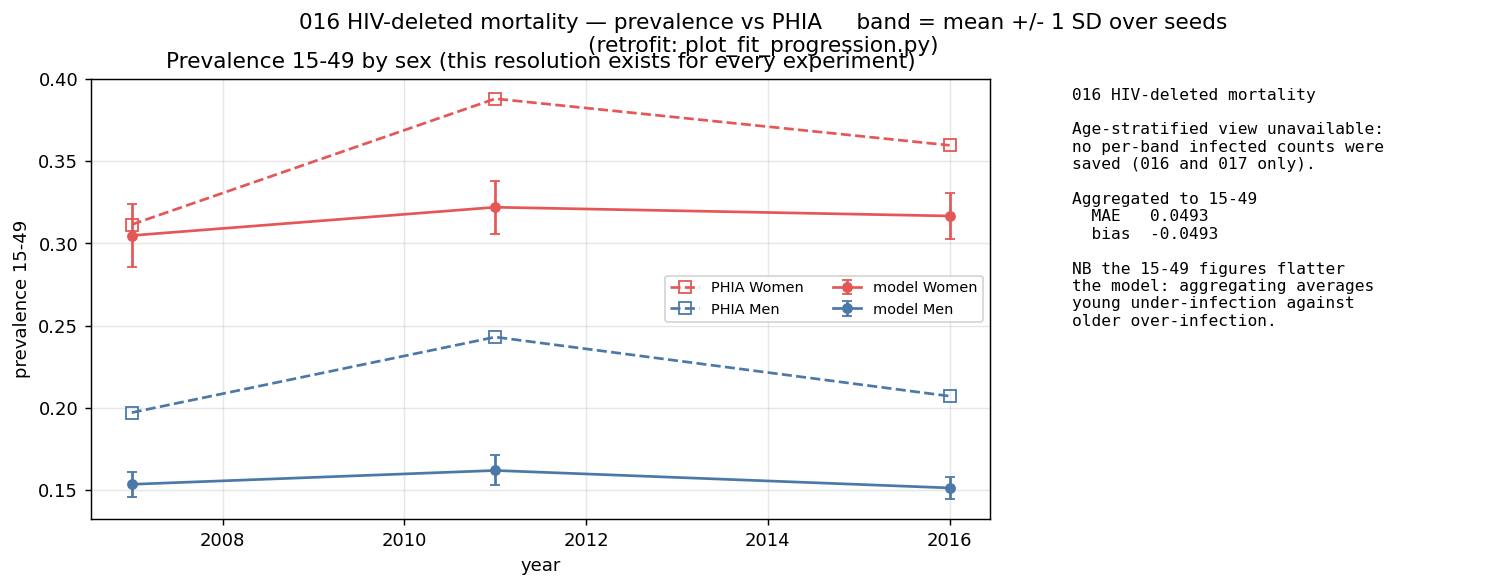
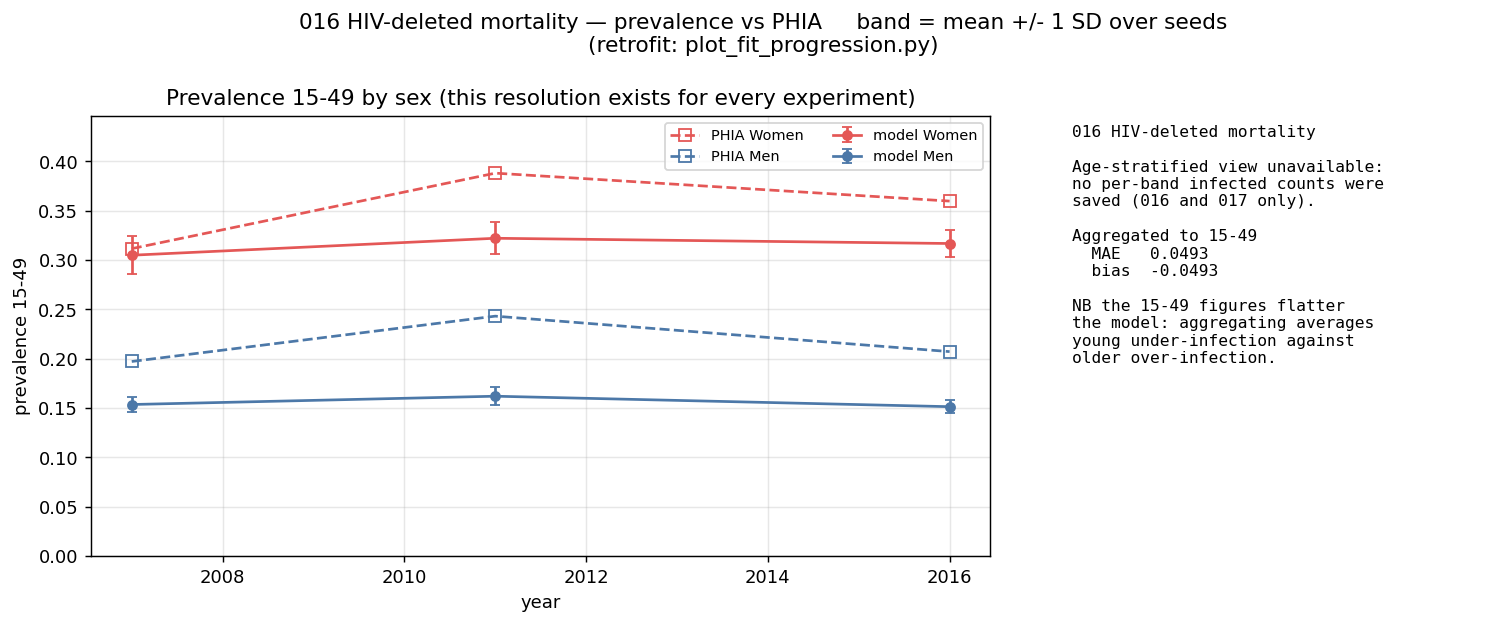
Recode the PPDV cascade data onto one sex convention; anchor the 15-49 panel at zero
external_data/Swaziland_PPDV.csv mixes two sex conventions within the same row:
Prev/VLS/ppdv use Gender 0 = FEMALE, while Inc uses Gender 0 = MALE. Verified
against primary sources for all three survey rounds:

  Prev 2016   G0 0.343 / G1 0.189   SHIMS2: women 34.3, men 18.9
  VLS  2016   G0 0.748 / G1 0.623   SHIMS2 Table 9.4.A: women 74.8, men 62.3
  VLS  2021   G0 0.886 / G1 0.824   SHIMS3 Table 8.2:   women 88.6, men 82.4
  Inc  2021   G0 0.20  / G1 1.45    SHIMS3 Table 5.1:   MEN 0.20, women 1.45
  Inc  2011   G0 1.65  / G1 3.14    SHIMS1:             MEN ~1.7, women ~3.1

and ppdv reproduces Prev x (1 - VLS) on the Prev/VLS convention, which pins it
to that block rather than to Inc.

ppdv_construction.py emits data/eswatini_ppdv.csv with an explicit sex column of
'm'/'f' strings -- a label that cannot be silently inverted the way an integer
can -- plus Gender in the convention the other target files use (0 = Male,
1 = Female, matching prevalence_by_age_sex.csv and the 2021 incidence holdout).
Ten primary-source assertions and the ppdv identity are checked at build time,
so a changed raw file fails loudly rather than producing a wrong recode.

The raw file is left untouched: external_data/ holds source data, and editing it
in place would destroy the provenance trail and make a future re-download
indistinguishable from the corrected version. Same pattern as
mortality_construction.py and vls_construction.py.
[…]

diff --git a/ppdv_construction.py b/ppdv_construction.py
@@ -1,0 +1,133 @@
+"""Recode external_data/Swaziland_PPDV.csv onto one consistent sex convention.
+
+Run `python ppdv_construction.py` to regenerate data/eswatini_ppdv.csv.
+
+The problem
+-----------
+The raw file mixes two sex conventions *within the same row*:
+
+  Prev, Prev_lb/ub, VLS, VLS_lb/ub, ppdv, ppdv_lb/ub   Gender 0 = FEMALE
+  Inc, Inc_lb, Inc_ub                                  Gender 0 = MALE
+
+Verified against primary sources, all three survey rounds:
+
+  Prev 2016   G0 0.343 / G1 0.189   SHIMS2: women 34.3, men 18.9
+  VLS  2016   G0 0.748 / G1 0.623   SHIMS2 Table 9.4.A: women 74.8, men 62.3
+  VLS  2021   G0 0.886 / G1 0.824   SHIMS3 Table 8.2:   women 88.6, men 82.4
+  Inc  2021   G0 0.20  / G1 1.45    SHIMS3 Table 5.1:   MEN 0.20, women 1.45
+  Inc  2011   G0 1.65  / G1 3.14    SHIMS1:             MEN ~1.7, women ~3.1
+
+and `ppdv` reproduces Prev x (1 - VLS) on the Prev/VLS convention
+(2021: 0.316 x 0.114 = 0.0360, matching the file's 0.036024), which pins it to
+that block rather than to Inc.
+
+The fix
+-------
+Emit an explicit **`sex` column of 'm'/'f' strings**, so the ambiguity cannot
+recur -- a string label cannot be silently inverted the way an integer can.
+`Gender` is retained alongside it in the convention the other *target* files
+use, **0 = Male, 1 = Female**, matching
+`calibration_data/prevalence_by_age_sex.csv` and
+`calibration_data/incidence_2021_VALIDATION_ONLY.csv`.
+
+Note that is the opposite of stisim's internal convention (0 = female), which
+`data/art_coverage.csv` correctly follows. The two conventions are irreducible:
+model inputs follow stisim, targets follow the survey files. What matters is
+that each file states which it uses -- see exp 021's config.yaml for the map.
+
+Why the raw file is left untouched
+----------------------------------
+`external_data/` holds raw source data. Editing it in place would destroy the
+provenance trail and make a future re-download indistinguishable from the
+corrected version. This follows the existing pattern in this repo:
+`mortality_construction.py` and `vls_construction.py` both read raw inputs and
+emit processed files into `data/`.
+
+ART_prev is carried through unmapped and flagged. It exists only for 2011, where
+the two values are 0.34 and 0.33 -- too close to tell the sexes apart, and
+matching neither the 0.32/0.23 in the external ART prevalence file. Its
+convention is indeterminate and its meaning unclear, so it is not to be used
+without checking.
+"""
+
+import numpy as np
+import pandas as pd
+
+RAW = "external_data/Swaziland_PPDV.csv"
+OUT = "data/eswatini_ppdv.csv"
+
+# Column blocks and the convention each uses in the RAW file.
+FEMALE_IS_0 = ["Prev", "Prev_lb", "Prev_ub", "VLS", "VLS_lb", "VLS_ub",
+               "ppdv", "ppdv_lb", "ppdv_ub"]
+MALE_IS_0 = ["Inc", "Inc_lb", "Inc_ub"]
+INDETERMINATE = ["ART_prev", "ART_prev_lb", "ART_prev_ub"]
+
+# Primary-source anchors. The build fails loudly if the raw file ever changes
+# such that these no longer hold, rather than silently producing a wrong recode.
+CHECKS = [
+    # (year, sex, column, expected, source)
+    (2016, "f", "Prev", 0.343, "SHIMS2 prevalence 15-49, women"),
+    (2016, "m", "Prev", 0.189, "SHIMS2 prevalence 15-49, men"),
+    (2016, "f", "VLS", 0.747840, "SHIMS2 Table 9.4.A, women 74.8"),
+    (2016, "m", "VLS", 0.623272, "SHIMS2 Table 9.4.A, men 62.3"),
+    (2021, "f", "VLS", 0.886, "SHIMS3 Table 8.2, women 88.6"),
+    (2021, "m", "VLS", 0.824, "SHIMS3 Table 8.2, men 82.4"),
+    (2021, "m", "Inc", 0.20, "SHIMS3 Table 5.1, men 0.20"),
+    (2021, "f", "Inc", 1.45, "SHIMS3 Table 5.1, women"),
+    (2011, "m", "Inc", 1.65, "SHIMS1, men ~1.7"),
+    (2011, "f", "Inc", 3.14, "SHIMS1, women ~3.1"),
+]
+
+
+def build():
+    raw = pd.read_csv(RAW)
+    out_rows = []
+    for (year, agecat), g in raw.groupby(["Year", "AgeCat"], sort=False):
+        for sex in ("m", "f"):
+            row = dict(Year=int(year), AgeCat=agecat, sex=sex,
+                       Gender=0 if sex == "m" else 1)   # target convention
+            # Prev/VLS/ppdv block: raw Gender 0 is female
+            src = g[g.Gender == (0 if sex == "f" else 1)]
+            for c in FEMALE_IS_0:
+                row[c] = float(src[c].iloc[0]) if len(src) else np.nan
+            # Inc block: raw Gender 0 is male
+            src = g[g.Gender == (0 if sex == "m" else 1)]
+            for c in MALE_IS_0:
+                row[c] = float(src[c].iloc[0]) if len(src) else np.nan
+            # Indeterminate: carried on the Prev block's convention, flagged
+            src = g[g.Gender == (0 if sex == "f" else 1)]
+            for c in INDETERMINATE:
+                row[c] = float(src[c].iloc[0]) if len(src) else np.nan
+            out_rows.append(row)
+
+    df = pd.DataFrame(out_rows)
+    df["art_prev_convention"] = "INDETERMINATE - do not use without checking"
+
+    for year, sex, col, expected, source in CHECKS:
+        got = df[(df.Year == year) & (df.sex == sex)][col]
+        assert len(got), f"missing {year} {sex}"
+        assert abs(float(got.iloc[0]) - expected) < 1e-6, (
+            f"{year} {sex} {col}: got {float(got.iloc[0])}, expected {expected} "
+            f"({source}) -- the raw file's coding may have changed")
+
+    # ppdv must still reproduce Prev x (1 - VLS) after the recode, which it can
+    # only do if both came from the same original row.
+    ok = df.ppdv.notna() & df.Prev.notna() & df.VLS.notna()
+    resid = (df.loc[ok, "Prev"] * (1 - df.loc[ok, "VLS"]) - df.loc[ok, "ppdv"]).abs()
+    assert (resid < 5e-4).all(), (
+        f"ppdv no longer equals Prev x (1 - VLS) after recode; max residual "
+        f"{resid.max():.2g} -- the block assignment is wrong")
+
+    cols = (["Year", "AgeCat", "sex", "Gender", "Prev", "Prev_lb", "Prev_ub",
+             "VLS", "VLS_lb", "VLS_ub", "ppdv", "ppdv_lb", "ppdv_ub",
+             "Inc", "Inc_lb", "Inc_ub"] + INDETERMINATE
+            + ["art_prev_convention"])
+    return df[cols].sort_values(["Year", "sex"], ascending=[False, True])
+
+
+if __name__ == "__main__":
+    df = build()
+    df.to_csv(OUT, index=False)
+    print(f"wrote {OUT}: {len(df)} rows, all {len(CHECKS)} primary-source "
+          f"checks passed\n")
+    print(df[["Year", "sex", "Gender", "Prev", "VLS", "Inc"]].to_string(index=False))

diff --git a/standard_figures.py b/standard_figures.py
@@ -266,6 +266,13 @@ def plot_prevalence_fit(df, label, outpath, kind="arm", tg=None, stamp=None):
                 label=f"PHIA {SEX_LABEL[sex]}")
     ax.set(title="Prevalence 15-49 by sex (this resolution exists for every "
                  "experiment)", xlabel="year", ylabel="prevalence 15-49")
+    # Origin at zero: with an auto-scaled axis a 4-point gap on a 0.30 baseline
+    # fills half the panel and reads as a catastrophic miss. Anchoring at 0 shows
+    # the gap against the quantity's actual magnitude.
+    if len(agg):
+        top = max(agg.model.max() + agg.model_sd.fillna(0).max(),
+                  agg.phia.max()) * 1.15
+        ax.set_ylim(0, top)
     ax.grid(alpha=0.3)
     ax.legend(fontsize=8, ncol=2)
 
@@ -298,7 +305,8 @@ def plot_prevalence_fit(df, label, outpath, kind="arm", tg=None, stamp=None):
     title = f"{label} — prevalence vs PHIA     band = {band_lbl}"
     if stamp:
         title += f"\n({stamp})"
-    fig.suptitle(title, y=0.995, fontsize=12)
+    # Push the suptitle clear of the axes title in the collapsed one-row layout
+    fig.suptitle(title, y=1.06 if not has_bands else 0.995, fontsize=12)
     fig.savefig(outpath, dpi=130, bbox_inches="tight")
     plt.close(fig)
     return sc
